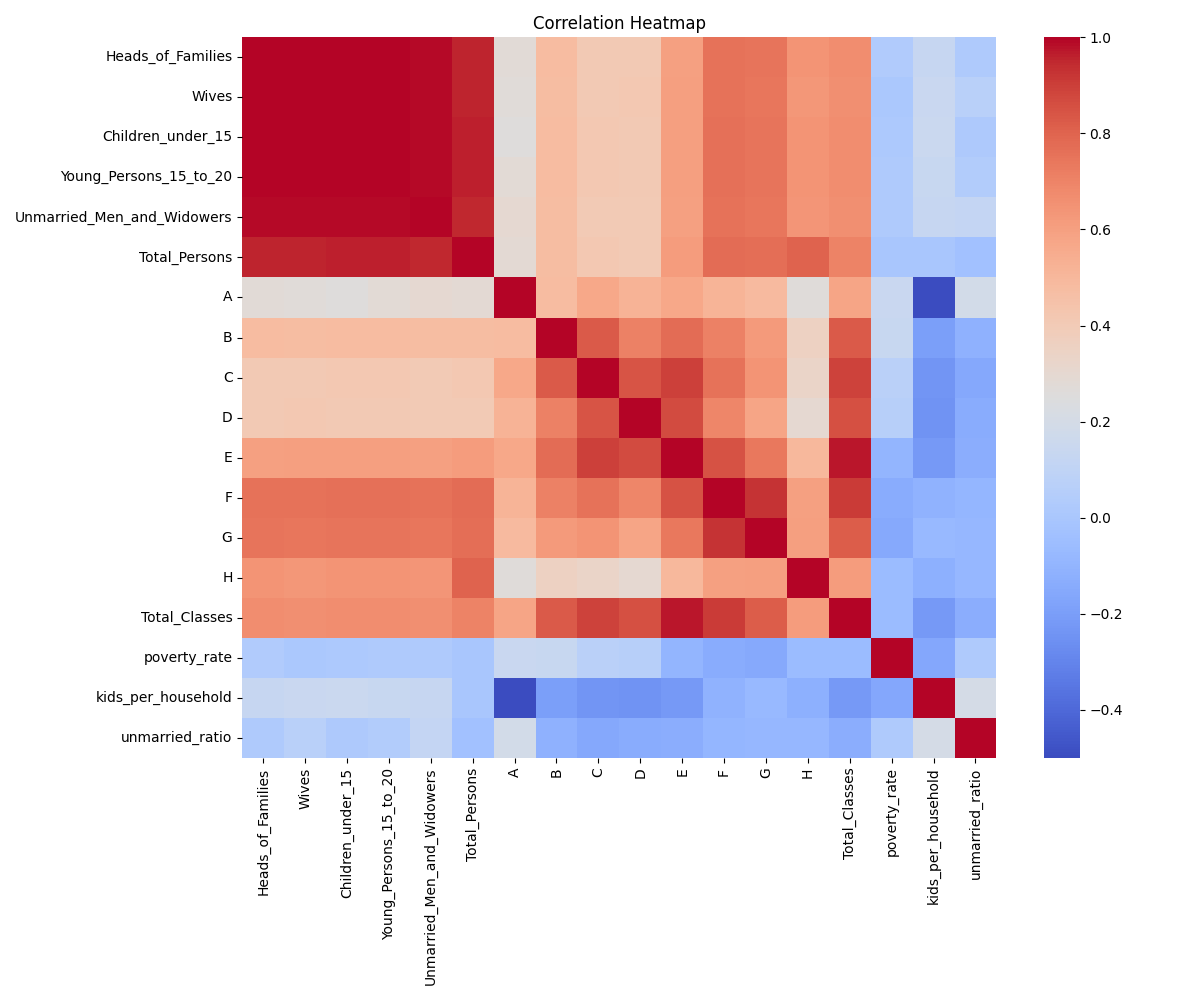
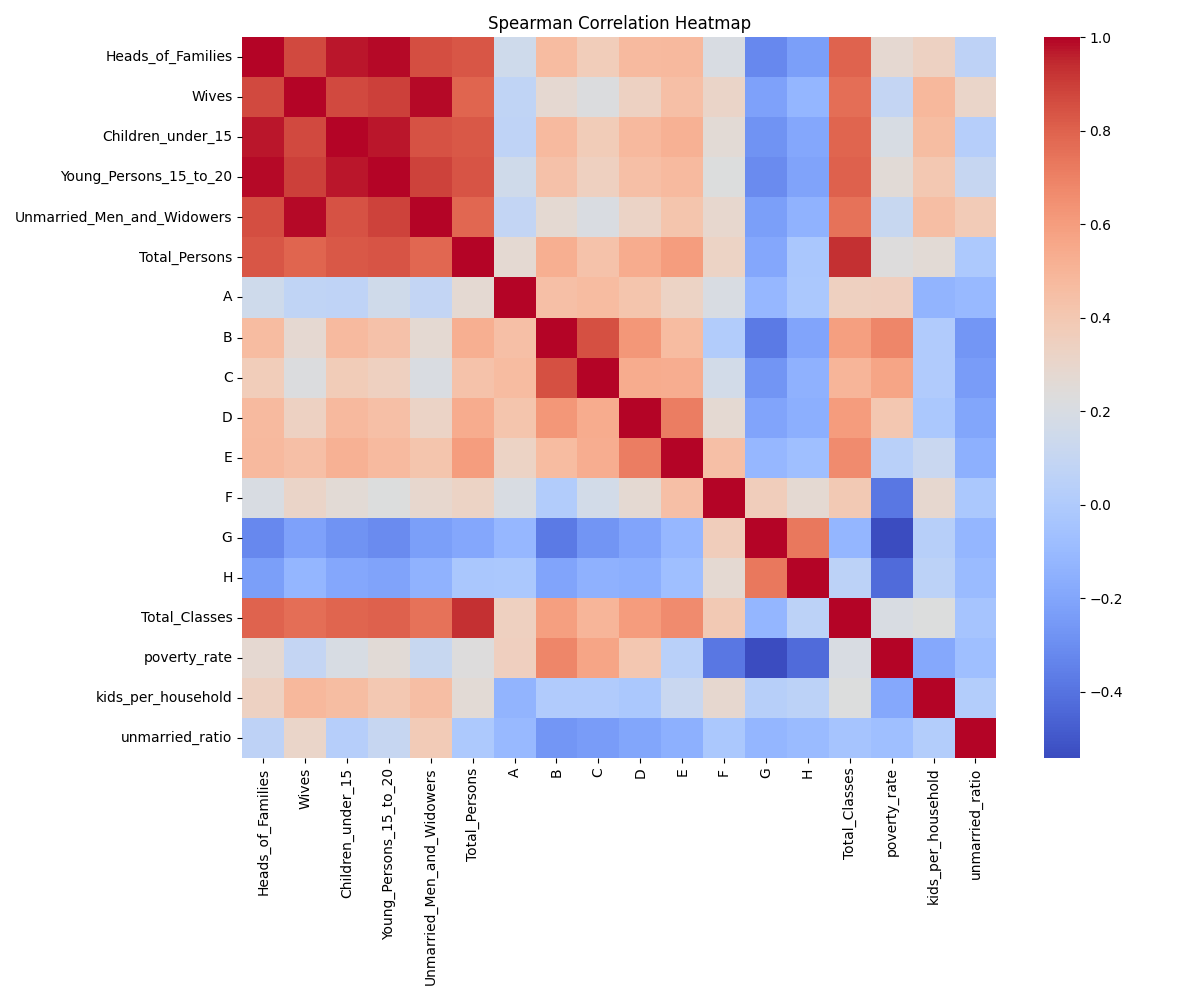
feat: adjust statistical testing for non-normal distribution
- Changed correlation in eda_and_tests.py to Spearman rank
- Added group_comparison.py to run Kruskal-Wallis H-test on poverty_rate across sections
- Added Shapiro-Wilk test on regression residuals in regression_analysis.py
- Generated Q-Q plot for regression residuals

diff --git a/scripts/group_comparison.py b/scripts/group_comparison.py
@@ -1,0 +1,38 @@
+import pandas as pd
+from scipy.stats import kruskal
+import os
+
+def run_group_comparison():
+    input_file = 'data/processed/final_analysis_data.csv'
+    stats_file = 'results/statistics_summary.txt'
+
+    if not os.path.exists(input_file):
+        print(f"Error: {input_file} not found.")
+        return
+
+    df = pd.read_csv(input_file)
+
+    # We want to compare poverty_rate across Section_Class
+    # Create a list of arrays for each group
+    groups = [group['poverty_rate'].values for name, group in df.groupby('Section_Class')]
+
+    # Perform Kruskal-Wallis H-test
+    stat, p_value = kruskal(*groups)
+
+    # Append the results to the statistics summary
+    with open(stats_file, 'a') as f:
+        f.write("\n\nKruskal-Wallis Test on poverty_rate across Section_Class\n")
+        f.write("------------------------------------------------------\n")
+        f.write(f"Test Statistic: {stat:.4f}\n")
+        f.write(f"p-value: {p_value:.4e}\n")
+
+        alpha = 0.05
+        if p_value < alpha:
+            f.write("Conclusion: There is a significant difference between sections (reject H0)\n")
+        else:
+            f.write("Conclusion: No significant difference between sections (fail to reject H0)\n")
+
+    print("Group comparison completed. Results appended to results/statistics_summary.txt.")
+
+if __name__ == '__main__':
+    run_group_comparison()

diff --git a/scripts/regression_analysis.py b/scripts/regression_analysis.py
@@ -50,6 +50,31 @@ def run_regression():
     plt.savefig(os.path.join(plots_dir, 'regression_residuals.png'))
     plt.close()
 
+    # 3. Shapiro-Wilk test on residuals
+    from scipy.stats import shapiro
+    stat, p_value = shapiro(residuals)
+    stats_file = 'results/statistics_summary.txt'
+    with open(stats_file, 'a') as f:
+        f.write("\n\nShapiro-Wilk Test for Normality on Regression Residuals\n")
+        f.write("-------------------------------------------------------\n")
+        f.write(f"Test Statistic: {stat:.4f}\n")
+        f.write(f"p-value: {p_value:.4e}\n")
+
+        alpha = 0.05
+        if p_value > alpha:
+            f.write("Conclusion: The residuals look Gaussian (fail to reject H0)\n")
+        else:
+            f.write("Conclusion: The residuals do not look Gaussian (reject H0)\n")
+
+    # 4. Q-Q Plot of the residuals
+    import statsmodels.api as sm
+    plt.figure(figsize=(8, 8))
+    sm.qqplot(residuals, line='45', fit=True)
+    plt.title('Q-Q Plot of Regression Residuals')
+    plt.tight_layout()
+    plt.savefig(os.path.join(plots_dir, 'regression_qqplot.png'))
+    plt.close('all')
+
     print("Regression analysis completed. Outputs saved.")
 
 if __name__ == '__main__':

diff --git a/scripts/eda_and_tests.py b/scripts/eda_and_tests.py
@@ -31,9 +31,10 @@ def run_eda_and_tests():
     # 2. Correlation Heatmap (only numeric columns)
     numeric_df = df.select_dtypes(include=['number'])
     plt.figure(figsize=(12, 10))
-    corr_matrix = numeric_df.corr()
+    # Replace Pearson correlation with Spearman rank correlation
+    corr_matrix = numeric_df.corr(method='spearman')
     sns.heatmap(corr_matrix, annot=False, cmap='coolwarm', fmt=".2f")
-    plt.title('Correlation Heatmap')
+    plt.title('Spearman Correlation Heatmap')
     plt.tight_layout()
     plt.savefig(os.path.join(plots_dir, 'correlation_heatmap.png'))
     plt.close()